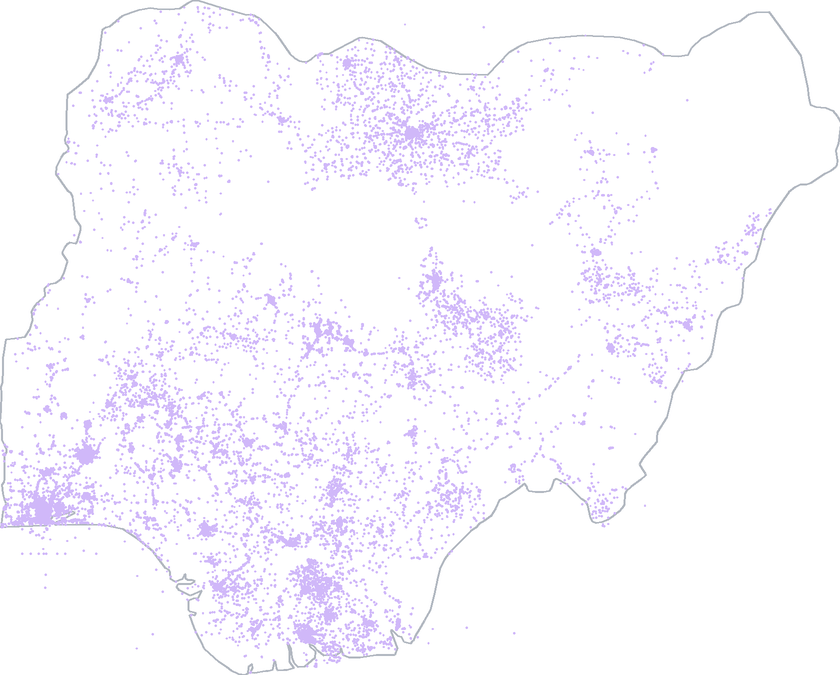
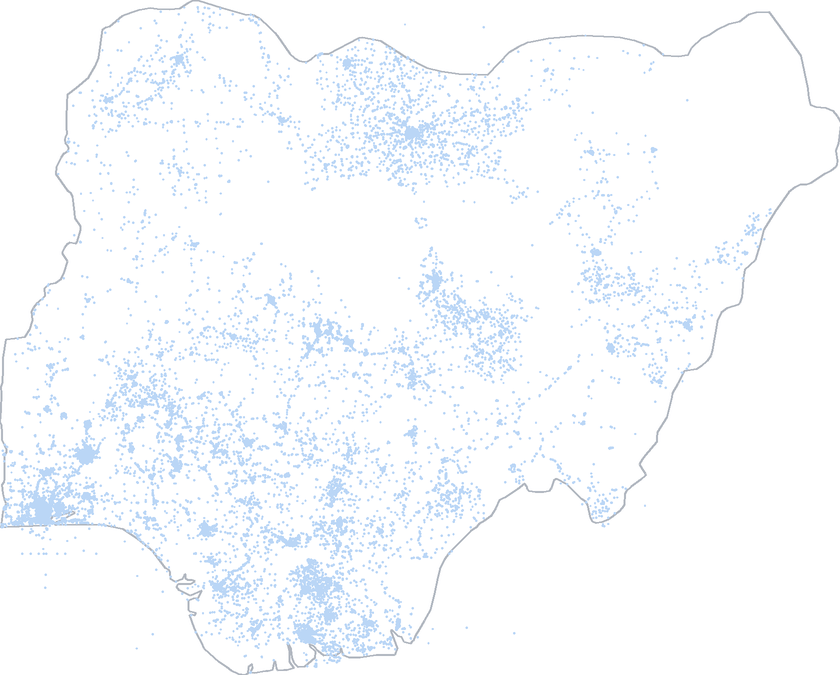
datasets: move record 01 from violet to pastel blue
Nigeria dot maps take #6da7ec, step 300 of the validated blue sequential
ramp; the Senegal choropleths take steps 100/200/300/400/500 of the same
ramp. Sharing a hue - and the exact step the dots use sitting in the
middle of the choropleth scale - ties the two halves of the record
together in a way the old violet pair did not.

The ramp is better behaved than the one it replaces: OKLab L falls in
near-equal increments of 0.093-0.095, so no bin boundary reads as a
bigger jump than the others, and the darkest step is 3.3:1 on #17181c
against the old 2.0:1, so the top bin now actually reads in dark mode.

Dot alphas go up ~30%. One transparent PNG serves both themes, and
#6da7ec is a lighter hue than #7c3aed - at the old alphas it put about
40% less colour between a dot and a white page, which the 100k-point
primary panel could not afford. The step-up tapers for the sparse panels,
where dots barely overlap. Lighter blues still were rejected outright:
#93c5fd and #7dd3fc land near 0.05 OKLab L off white, which is close to
not being there.

diff --git a/scripts/build_school_maps.py b/scripts/build_school_maps.py
@@ -17,11 +17,17 @@ SOURCE DATA (not in this repo - it is not openly published):
 
 DESIGN NOTES
 
-  * One hue for every panel, #7c3aed - the site accent. Identity comes from the
-    panel label, not from colour, so there is no categorical palette to get
-    wrong. That hue was checked with the dataviz validator and passes every
-    check against BOTH the light and the dark surface, which is why a single
-    transparent PNG serves both themes.
+  * One hue for every panel, #6da7ec - a pastel blue, step 300 of the validated
+    blue sequential ramp, and the middle step of the ramp the Senegal
+    choropleths use, so the two halves of this record read as one dataset.
+    Identity comes from the panel label, not from colour, so there is no
+    categorical palette to get wrong.
+
+    A single transparent PNG serves both themes, so the hue has to hold up
+    against #ffffff AND #17181c: this one is 2.5:1 and 7.1:1. Lighter blues
+    were tried and rejected - #93c5fd and #7dd3fc fall to ~0.05 OKLab L off the
+    white surface at the alpha the 105k-point primary panel needs, which is
+    close to not being there at all.
 
   * Faceting rather than one combined map is deliberate twice over: a point map
     is an all-pairs form, where a validated categorical palette tops out at
@@ -54,7 +60,7 @@ NE_URL = ("https://raw.githubusercontent.com/nvkelso/natural-earth-vector/"
 # for any pin placed on these maps.
 LON0, LON1, LAT0, LAT1 = 2.6860, 14.6197, 4.2774, 13.8729
 WIDTH, SUPERSAMPLE = 840, 2
-DOT = (0x7C, 0x3A, 0xED)
+DOT = (0x6D, 0xA7, 0xEC)
 
 LEVELS = [
     ("Pre-Primary", "pre-primary"),
@@ -65,14 +71,20 @@ LEVELS = [
 
 
 def dot_style(n):
-    """Bigger, more opaque dots when there are fewer of them."""
+    """Bigger, more opaque dots when there are fewer of them.
+
+    The alphas are ~30% above what the old violet used, because #6da7ec is a
+    lighter hue and the same alpha put roughly 40% less of it between the dot
+    and a white page. The step-up tapers off for the sparse panels, where dots
+    barely overlap and the deficit matters least.
+    """
     if n > 50_000:
-        return 1.5, 72
+        return 1.5, 95
     if n > 10_000:
-        return 1.9, 92
+        return 1.9, 120
     if n > 2_000:
-        return 2.8, 150
-    return 3.4, 195
+        return 2.8, 185
+    return 3.4, 235
 
 
 def nigeria_ring(cache="/tmp/ne50_countries.geojson"):

diff --git a/scripts/build_senegal_maps.py b/scripts/build_senegal_maps.py
@@ -46,6 +46,14 @@ DESIGN NOTES
 
   * Sequential ramp: one hue, light to dark, lightness strictly decreasing
     (asserted at run time). Sequential encodes magnitude - never a rainbow.
+    Steps 100/200/300/400/500 of the validated blue ramp, a pastel blue whose
+    OKLab L falls in near-equal increments of 0.093-0.095, so no bin boundary
+    reads as a bigger jump than the others. Step 300 is also the hue the
+    Nigeria dot maps use, which ties the two halves of the record together.
+    A sequential ramp is allowed to recede into the surface at the near-zero
+    end, which is why the lightest step does not have to clear the 2:1 floor an
+    ordinal ramp would owe; the darkest step is 3.3:1 on #17181c, so the top
+    bin still reads in dark mode.
   * One ABSOLUTE scale shared by all three panels, so they are comparable.
   * Transparent background, labels in HTML, so one asset serves both themes.
 """
@@ -72,7 +80,7 @@ relation["boundary"="administrative"]["admin_level"="8"](area.sn);
 out geom;"""
 
 WIDTH, SUPERSAMPLE = 840, 2
-RAMP = ["#ede9fe", "#c4b5fd", "#a78bfa", "#7c3aed", "#5b21b6"]
+RAMP = ["#cde2fb", "#9ec5f4", "#6da7ec", "#3987e5", "#256abf"]
 BREAKS = [10, 20, 40, 80]              # upper edges; 5 bins, tail open
 NODATA = "#f4f4f5"
 

diff --git a/content/datasets/school-censuses/index.md b/content/datasets/school-censuses/index.md
@@ -80,11 +80,11 @@ dataset:
       legend:
         label: 'Schools per commune'
         items:
-          - {color: '#ede9fe', text: '1–9'}
-          - {color: '#c4b5fd', text: '10–19'}
-          - {color: '#a78bfa', text: '20–39'}
-          - {color: '#7c3aed', text: '40–79'}
-          - {color: '#5b21b6', text: '80+'}
+          - {color: '#cde2fb', text: '1–9'}
+          - {color: '#9ec5f4', text: '10–19'}
+          - {color: '#6da7ec', text: '20–39'}
+          - {color: '#3987e5', text: '40–79'}
+          - {color: '#256abf', text: '80+'}
       collection: >
         Obtained directly from officials at the Ministry of Education. **Access
         to the Senegalese census is subject to their agreement**, so a request
